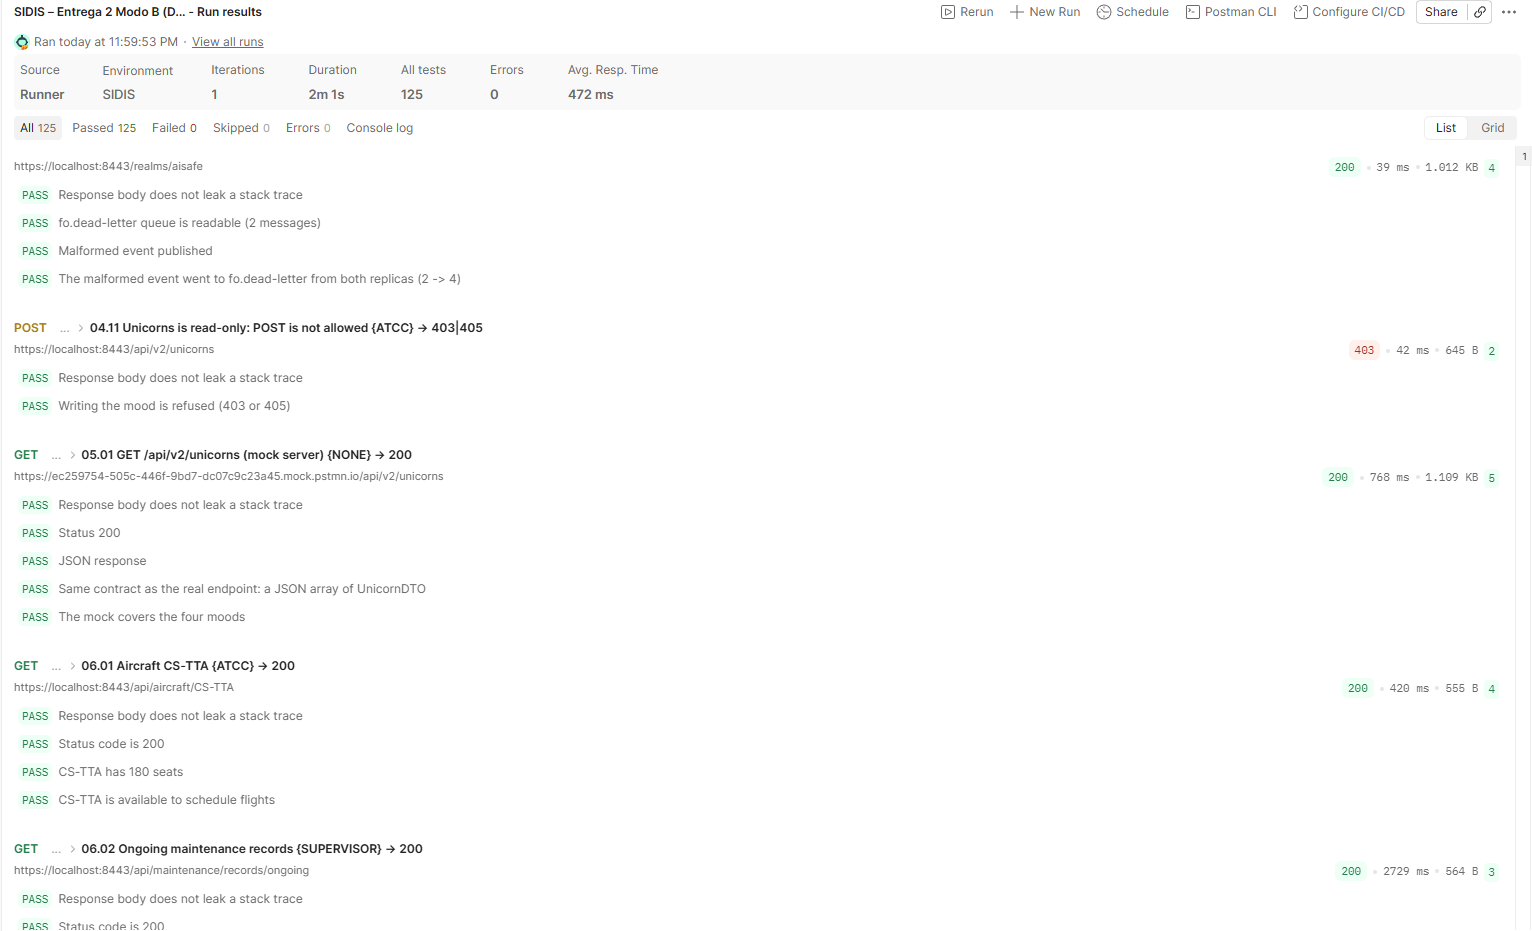
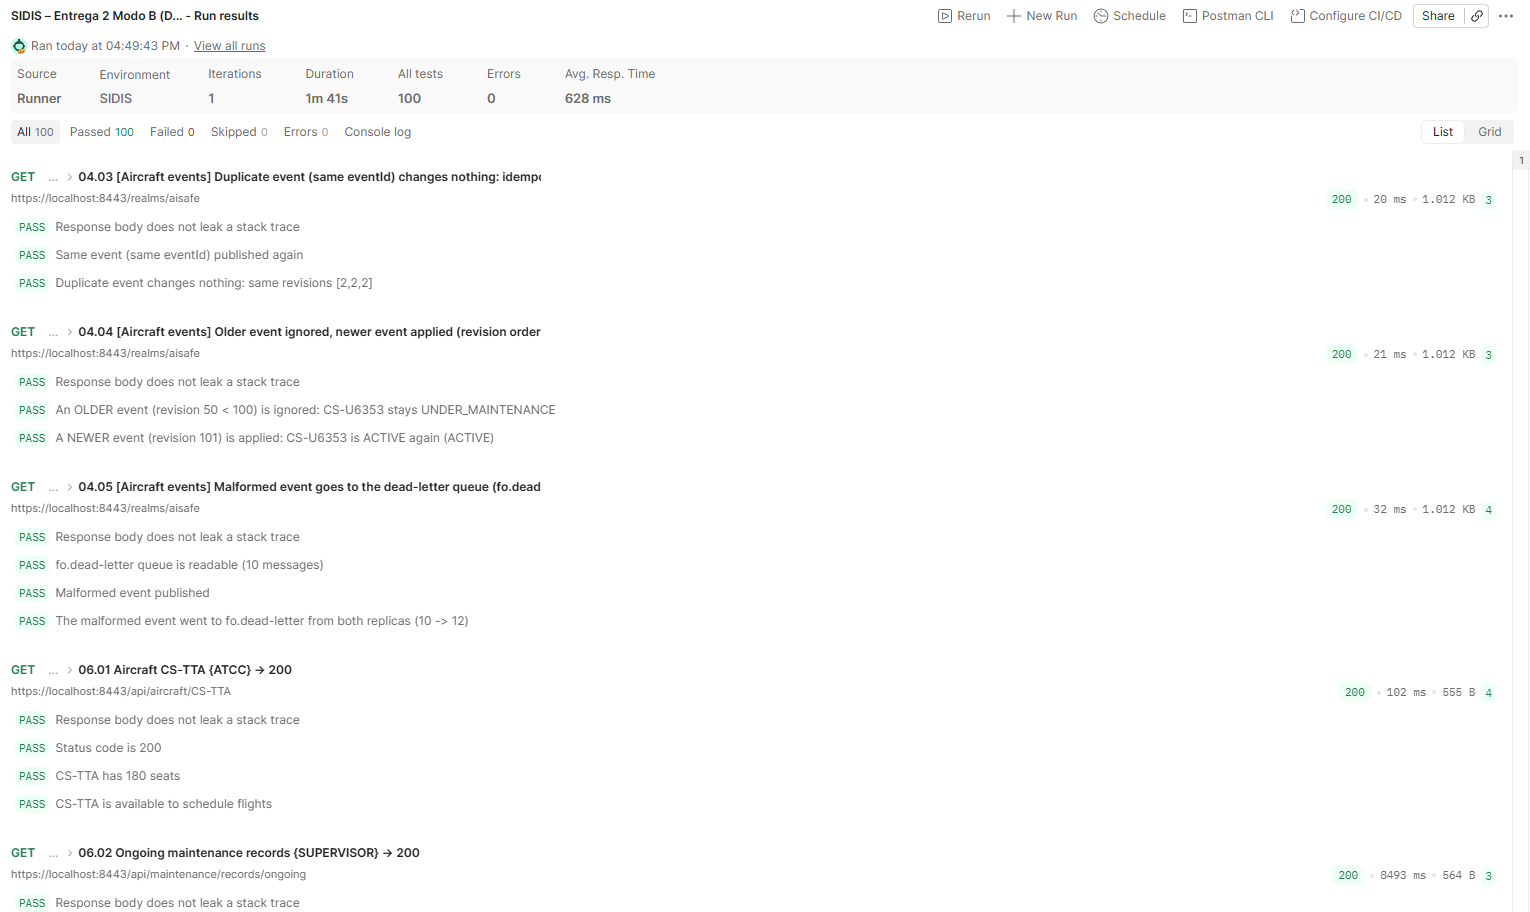
pequenos ajustes

diff --git a/infrastructure/README.md b/infrastructure/README.md
@@ -218,8 +218,8 @@ Pasta `tests(postman)/` da raiz do repositório:
 | `SIDIS.postman_environment.json` | Environment `SIDIS` (URLs, utilizadores de teste, API key) |
 | `SIDIS – Modo A (IntelliJ).postman_collection.json` | Entrega 1, Modo A (acesso direto às réplicas) |
 | `SIDIS – Modo B (Docker).postman_collection.json` | Entrega 1, Modo B (só via gateway, 2 réplicas, testes de SPOF) |
-| `SIDIS – Entrega 2 Modo A (IntelliJ).postman_collection.json` | Entrega 2, Modo A (CQRS, AMQP, base por instância; 188 testes) |
-| `SIDIS – Entrega 2 Modo B (Docker).postman_collection.json` | Entrega 2, Modo B (125 testes; ver `docs/SIDIS/README.md`) |
+| `SIDIS Entrega 2 Modo A (IntelliJ).postman_collection.json` | Entrega 2, Modo A (CQRS, AMQP, base por instância; 170 testes) |
+| `SIDIS Entrega 2 Modo B (Docker).postman_collection.json` | Entrega 2, Modo B (100 testes; ver `docs/SIDIS/README.md`) |
 
 1. Importar o environment e a coleção do modo em uso; escolher o environment `SIDIS`.
 2. Em *Settings*, desligar **SSL certificate verification** (certificado autoassinado).
